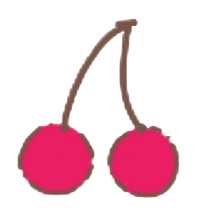
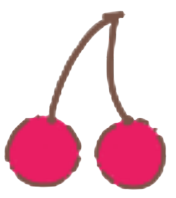
added hover tooltip

Changed region(s): [[0.0, 0.0303, 0.9659, 0.9697]]

diff --git a/index.html b/index.html
@@ -56,157 +56,157 @@
             <div class="circle-carousel" data-speed="2000" data-autoplay="5000">
                 <div class="fruits">
                     <div class="item">
-                        <div class="dot">
+                        <div class="dot" data-tooltip="A">
                             <img src="./font/src/png/A.png" alt="A for avocado">
                         </div>
                     </div>
 
                     <div class="item">
-                        <div class="dot">
+                        <div class="dot" data-tooltip="B">
                             <img src="./font/src/png/B.png" alt="B for banana">
                         </div>
                     </div>
 
                     <div class="item">
-                        <div class="dot">
+                        <div class="dot" data-tooltip="C">
                             <img src="./font/src/png/C.png" alt="C for cherry">
                         </div>
                     </div>
 
                     <div class="item">
-                        <div class="dot">
+                        <div class="dot" data-tooltip="D">
                             <img src="./font/src/png/D.png" alt="D for dragonfruit">
                         </div>
                     </div>
 
                     <div class="item">
-                        <div class="dot">
+                        <div class="dot" data-tooltip="E">
                             <img src="./font/src/png/E.png" alt="E for eggplant">
                         </div>
                     </div>
 
                     <div class="item">
-                        <div class="dot">
+                        <div class="dot" data-tooltip="F">
                             <img src="./font/src/png/F.png" alt="F for fig">
                         </div>
                     </div>
 
                     <div class="item">
-                        <div class="dot">
+                        <div class="dot" data-tooltip="G">
                             <img src="./font/src/png/G.png" alt="G for grapes">
                         </div>
                     </div>
 
                     <div class="item">
-                        <div class="dot">
+                        <div class="dot" data-tooltip="H">
                             <img src="./font/src/png/H.png" alt="H for hazelnut">
                         </div>
                     </div>
 
                     <div class="item">
-                        <div class="dot">
+                        <div class="dot" data-tooltip="I">
                             <img src="./font/src/png/I.png" alt="I for ice apple">
                         </div>
                     </div>
 
                     <div class="item">
-                        <div class="dot">
+                        <div class="dot" data-tooltip="J">
                             <img src="./font/src/png/J.png" alt="J for jamun">
                         </div>
                     </div>
 
                     <div class="item">
-                        <div class="dot">
+                        <div class="dot" data-tooltip="K">
                             <img src="./font/src/png/K.png" alt="K for kiwi">
                         </div>
                     </div>
 
                     <div class="item">
-                        <div class="dot">
+                        <div class="dot" data-tooltip="L">
                             <img src="./font/src/png/L.png" alt="L for lychee">
                         </div>
                     </div>
 
                     <div class="item">
-                        <div class="dot">
+                        <div class="dot" data-tooltip="M">
                             <img src="./font/src/png/M.png" alt="M for mango">
                         </div>
                     </div>
 
                     <div class="item">
-                        <div class="dot">
+                        <div class="dot" data-tooltip="N">
                             <img src="./font/src/png/N.png" alt="N for nutmeg">
                         </div>
                     </div>
 
                     <div class="item">
-                        <div class="dot">
+                        <div class="dot" data-tooltip="O">
                             <img src="./font/src/png/O.png" alt="O for orange">
                         </div>
                     </div>
 
                     <div class="item">
-                        <div class="dot">
+                        <div class="dot" data-tooltip="P">
                             <img src="./font/src/png/P.png" alt="P for peach">
                         </div>
                     </div>
 
                     <div class="item">
-                        <div class="dot">
+                        <div class="dot" data-tooltip="Q">
                             <img src="./font/src/png/Q.png" alt="Q for quinoa">
                         </div>
                     </div>
 
                     <div class="item">
-                        <div class="dot">
+                        <div class="dot" data-tooltip="R">
                             <img src="./font/src/png/R.png" alt="R for rambutan">
                         </div>
                     </div>
 
                     <div class="item">
-                        <div class="dot">
+                        <div class="dot" data-tooltip="S">
                             <img src="./font/src/png/S.png" alt="S for strawberry">
                         </div>
                     </div>
 
                     <div class="item">
-                        <div class="dot">
+                        <div class="dot" data-tooltip="T">
                             <img src="./font/src/png/T.png" alt="T for tomato">
                         </div>
                     </div>
 
                     <div class="item">
-                        <div class="dot">
+                        <div class="dot" data-tooltip="U">
                             <img src="./font/src/png/U.png" alt="U for umbrella squash">
                         </div>
                     </div>
 
                     <div class="item">
-                        <div class="dot">
+                        <div class="dot" data-tooltip="V">
                             <img src="./font/src/png/V.png" alt="V for vanilla">
                         </div>
                     </div>
 
                     <div class="item">
-                        <div class="dot">
+                        <div class="dot" data-tooltip="W">
                             <img src="./font/src/png/W.png" alt="W for watermelon">
                         </div>
                     </div>
 
                     <div class="item">
-                        <div class="dot">
+                        <div class="dot" data-tooltip="X">
                             <img src="./font/src/png/X.png" alt="X for xigua">
                         </div>
                     </div>
 
                     <div class="item">
-                        <div class="dot">
+                        <div class="dot" data-tooltip="Y">
                             <img src="./font/src/png/Y.png" alt="Y for yangmei">
                         </div>
                     </div>
 
                     <div class="item">
-                        <div class="dot">
+                        <div class="dot" data-tooltip="Zadd">
                             <img src="./font/src/png/Z.png" alt="Z for zucchini">
                         </div>
                     </div>

diff --git a/pages/home/style.css b/pages/home/style.css
@@ -337,6 +337,34 @@ main {
   display: flex;
   justify-content: center;
   align-items: center;
+  cursor: pointer;
+}
+
+.dot::after {
+  /* Dynamically pull the text from the data-tooltip attribute */
+  content: attr(data-tooltip); 
+  
+  position: absolute;
+  bottom: 100%;
+  left: 50%;
+  transform: translateX(-50%);
+  opacity: 0;
+  visibility: hidden;
+  transition: opacity 0.2s ease;
+
+  background-color: var(--dark-brown);
+  color: var(--white);
+  font-weight: 700;
+  padding: 6px 10px;
+  border-radius: 4px;
+  font-size: 16px;
+  white-space: nowrap;
+  z-index: 10;
+}
+
+.dot:hover::after {
+  opacity: 1;
+  visibility: visible;
 }
 
 .circle-carousel .fruits .dot:hover {